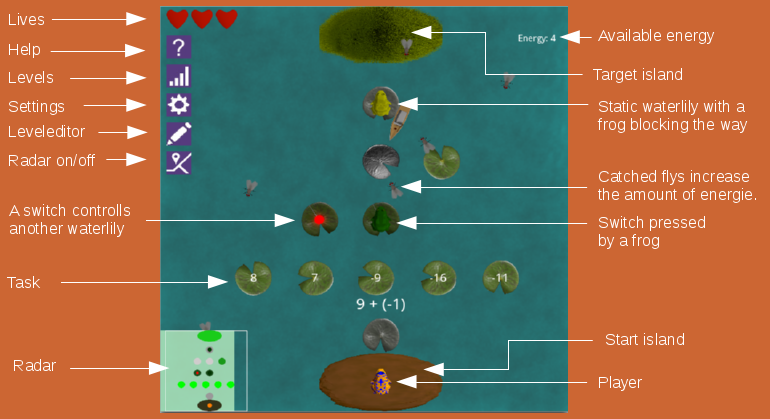
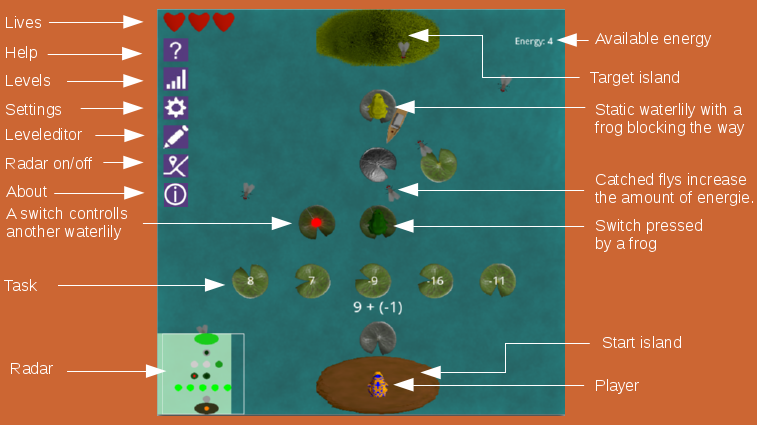
Added about

diff --git a/main.py b/main.py
@@ -117,6 +117,13 @@ class FrogApp(App):
         self.help_popup.bind(on_touch_down=self.help_popup.dismiss)
         self.help_popup.bind(on_open=self.pause_game)
         self.help_popup.bind(on_dismiss=self.continue_game)
+        # popup to display about
+        self.about_popup = Popup(title="About",
+                                attach_to=self.game)
+        self.about_popup.content = AboutPopup()
+        self.about_popup.bind(on_touch_down=self.about_popup.dismiss)
+        self.about_popup.bind(on_open=self.pause_game)
+        self.about_popup.bind(on_dismiss=self.continue_game)
         # popup to choose a level
         l = LevelChooserPopup()
         i = 1
@@ -1157,6 +1164,10 @@ class SettingNumericRange(SettingItem):
 
 
 class LevelChooserPopup(Widget):
+    pass
+
+
+class AboutPopup(Widget):
     pass
 
 
